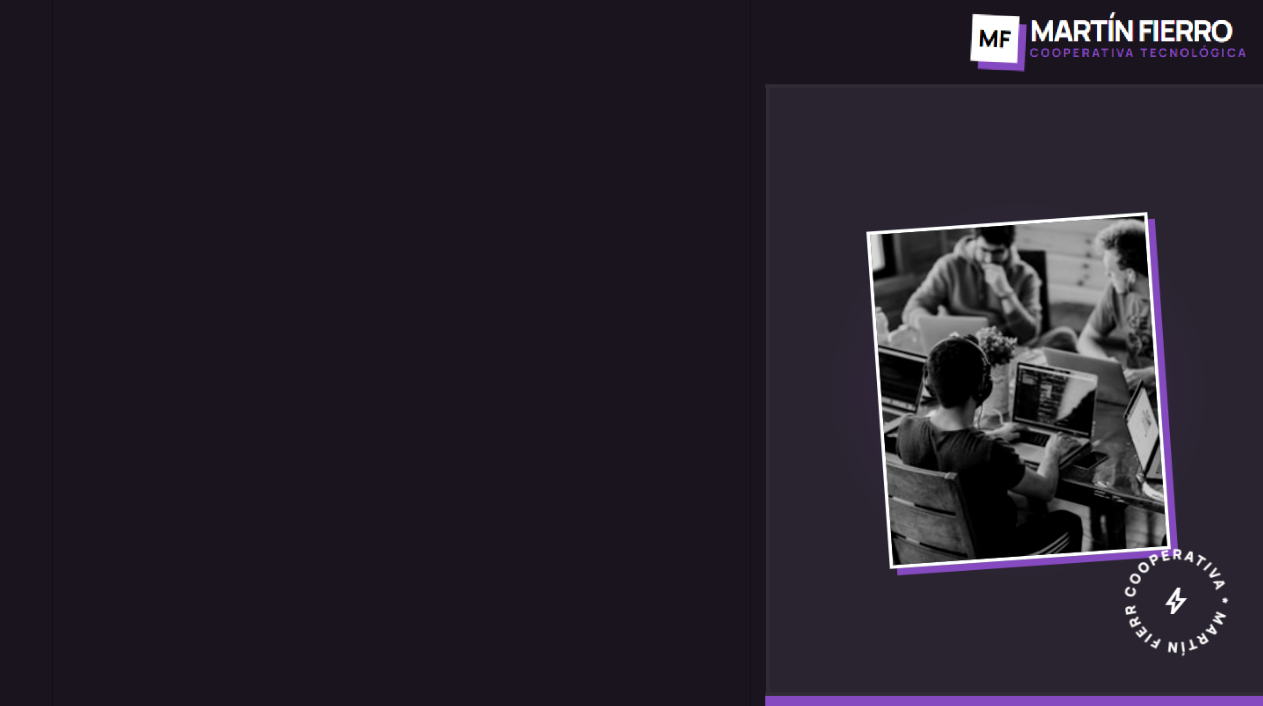
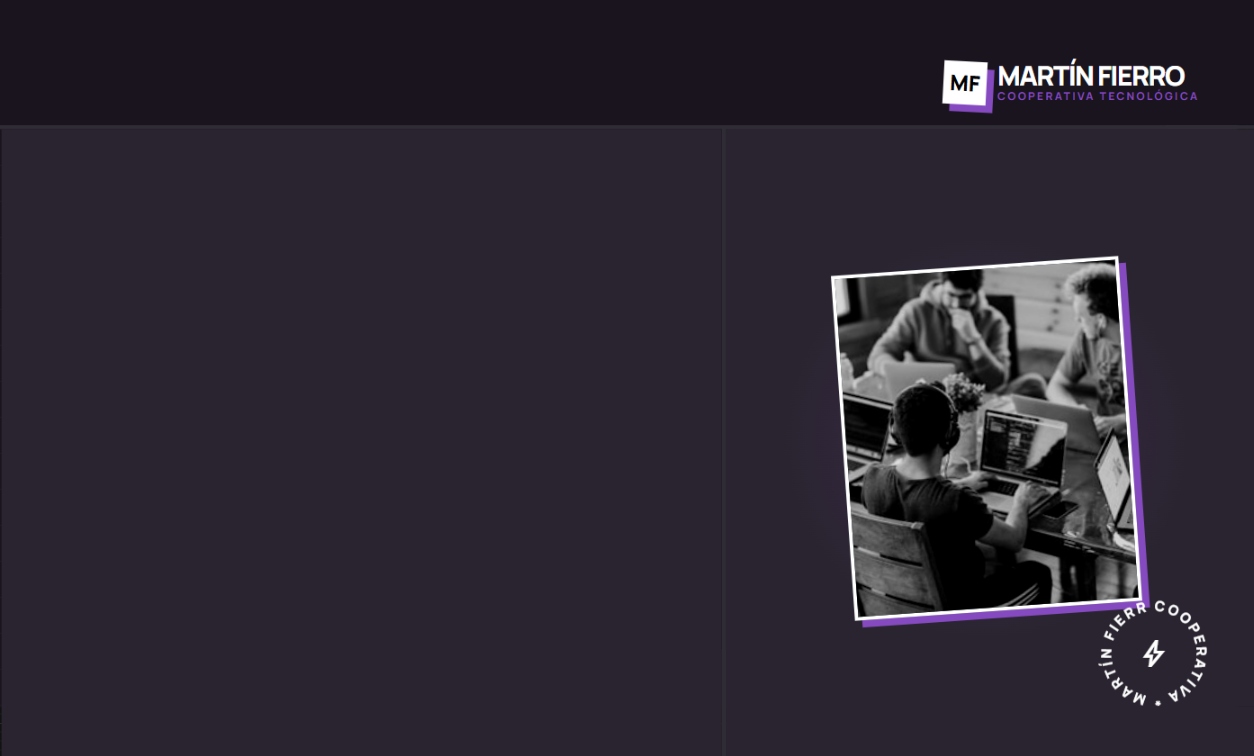
Modificaciones de diseño

Changed region(s): [[0.6531, 0.2805, 0.9641, 0.9348], [0.7464, 0.0, 0.9952, 0.1558], [0.5909, 0.966, 1.0, 1.0]]

diff --git a/src/components/projects/projects.jsx b/src/components/projects/projects.jsx
@@ -1,23 +1,25 @@
 import React from 'react';
 import { useNavigate } from 'react-router-dom';
 import './projects.css';
-import PBA from '../../assets/images/min-hab.png';
+import paga from '../../assets/images/ivba.png';
+import pba from '../../assets/images/min-hab.png';
 import tecladoNeon from '../../assets/images/teclado-neon.jpg';
 import coop from '../../assets/images/coop-pnt-fondo.png';
+import circuit from '../../assets/images/fondo-de-placa-de-circuito.jpg';
 
 const projectsData = [
   {
     id: 1,
-    title: 'Generador Automatizado de Informes Gubernamentales',
-    description: 'Solución escalable diseñada para el Gobierno de la PBA que automatiza la creación masiva de reportes PDF profesionales. Integra flujos de datos desde Excel y Google Sheets, optimizando tiempos de procesamiento y garantizando la consistencia institucional.',
-    imageUrl: PBA,
-    category: 'Automatización'
+    title: 'Portal de Autogestión de Pagos',
+    description: 'Solución web para la digitalización de cobros del Instituto de la Vivienda. Implementa un motor de búsqueda por DNI/ID, generación dinámica de comprobantes de pagodescarga de boletas electrónicas e integración con pasarela de pago online Provincia-NET.',
+    imageUrl: paga,
+    category: 'Desarrollo Web'
   },
   {
     id: 2,
     title: 'Generador Automatizado de Informes Gubernamentales',
     description: 'Solución escalable diseñada para el Gobierno de la PBA que automatiza la creación masiva de reportes PDF profesionales. Integra flujos de datos desde Excel y Google Sheets, optimizando tiempos de procesamiento y garantizando la consistencia institucional.',
-    imageUrl: PBA,
+    imageUrl: pba,
     category: 'Automatización'
   },
   {
@@ -38,7 +40,7 @@ const projectsData = [
     id: 5,
     title: 'Seguridad Hogareña IoT',
     description: 'Sistema de seguridad inteligente para gestión remota del hogar.',
-    imageUrl: 'src/assets/images/iot-security.jpg',
+    imageUrl: circuit,
     category: 'IoT'
   },
 ];

diff --git a/src/components/aboutMe/AboutMe.css b/src/components/aboutMe/AboutMe.css
@@ -1,7 +1,7 @@
 #circular-timeline {
   min-height: 100vh;
-  padding: 80px 20px;
-  background: linear-gradient(180deg, #0f1724 0%, #0b1220 100%);
+  padding: 210px 20px 100px;
+  background: linear-gradient(180deg, black 0%, #0b1220 100%);
   color: #e6eef8;
   display: flex;
   align-items: center;
